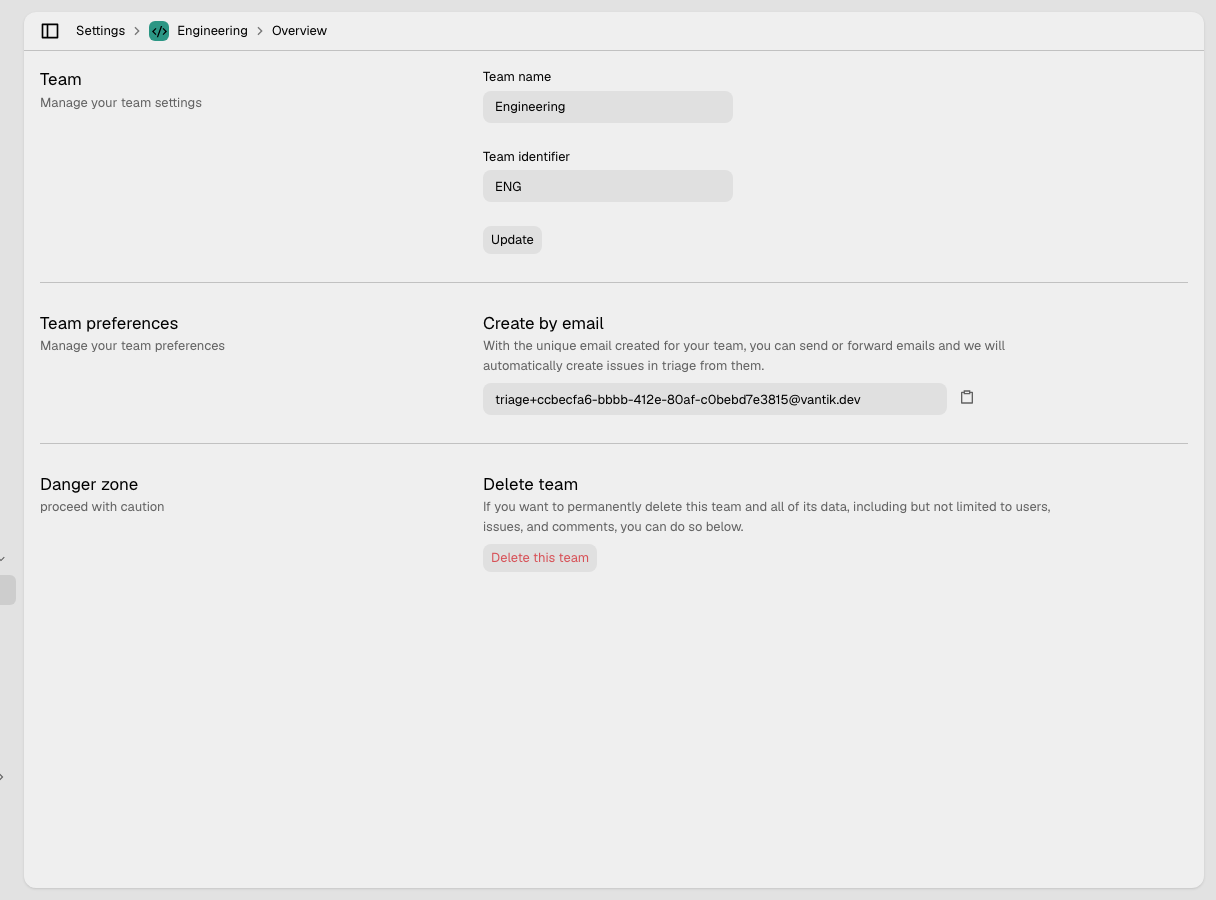
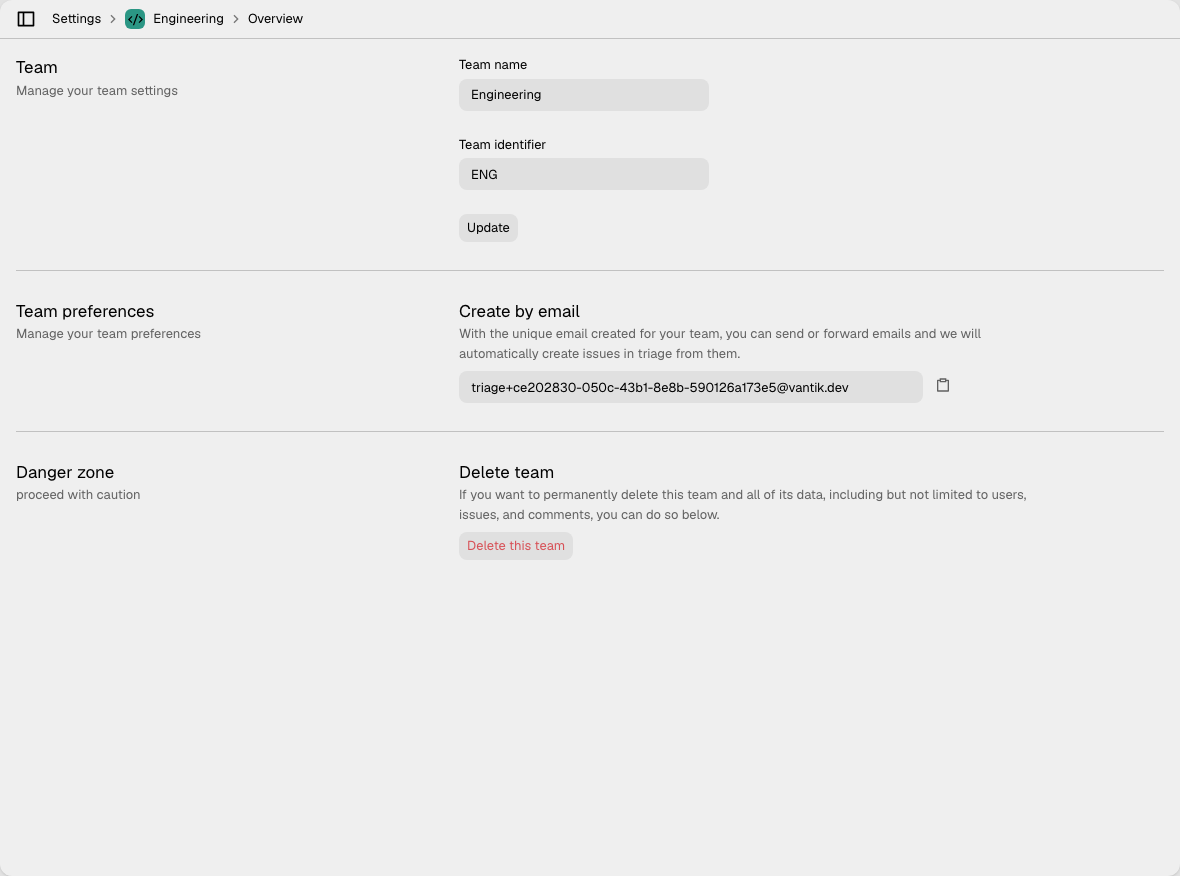
Say what a suspension actually stops (ENG-242)
The workspace page warned that a suspended member's access tokens keep
working. They do not: WorkspaceResourceGuard and the issue filter refuse any
membership that is not ACTIVE, whatever the credential. What a suspension
leaves running is narrower. The personal agents the member made hold their own
memberships, which suspendUser never touches, and the CSV export checks team
visibility without the membership status. The warning now names those two.

Also folded in: the duplicate Overview headings on the workspace and team
pages, that an admin can rename any team, that the triage table is hidden when
triage is off, and the three full-page captures cropped to the page itself.

diff --git a/apps/e2e/screenshots/app.capture.ts b/apps/e2e/screenshots/app.capture.ts
@@ -417,7 +417,7 @@ test.describe('settings', () => {
     test(name, async ({ page }) => {
       await page.goto(`${workspace}/${path}`);
       await expect(section(page, title)).toBeVisible();
-      await shot(page, name, { focus: content(page) });
+      await shot(page, name, { focus: content(page), padding: 0 });
     });
   }
 
